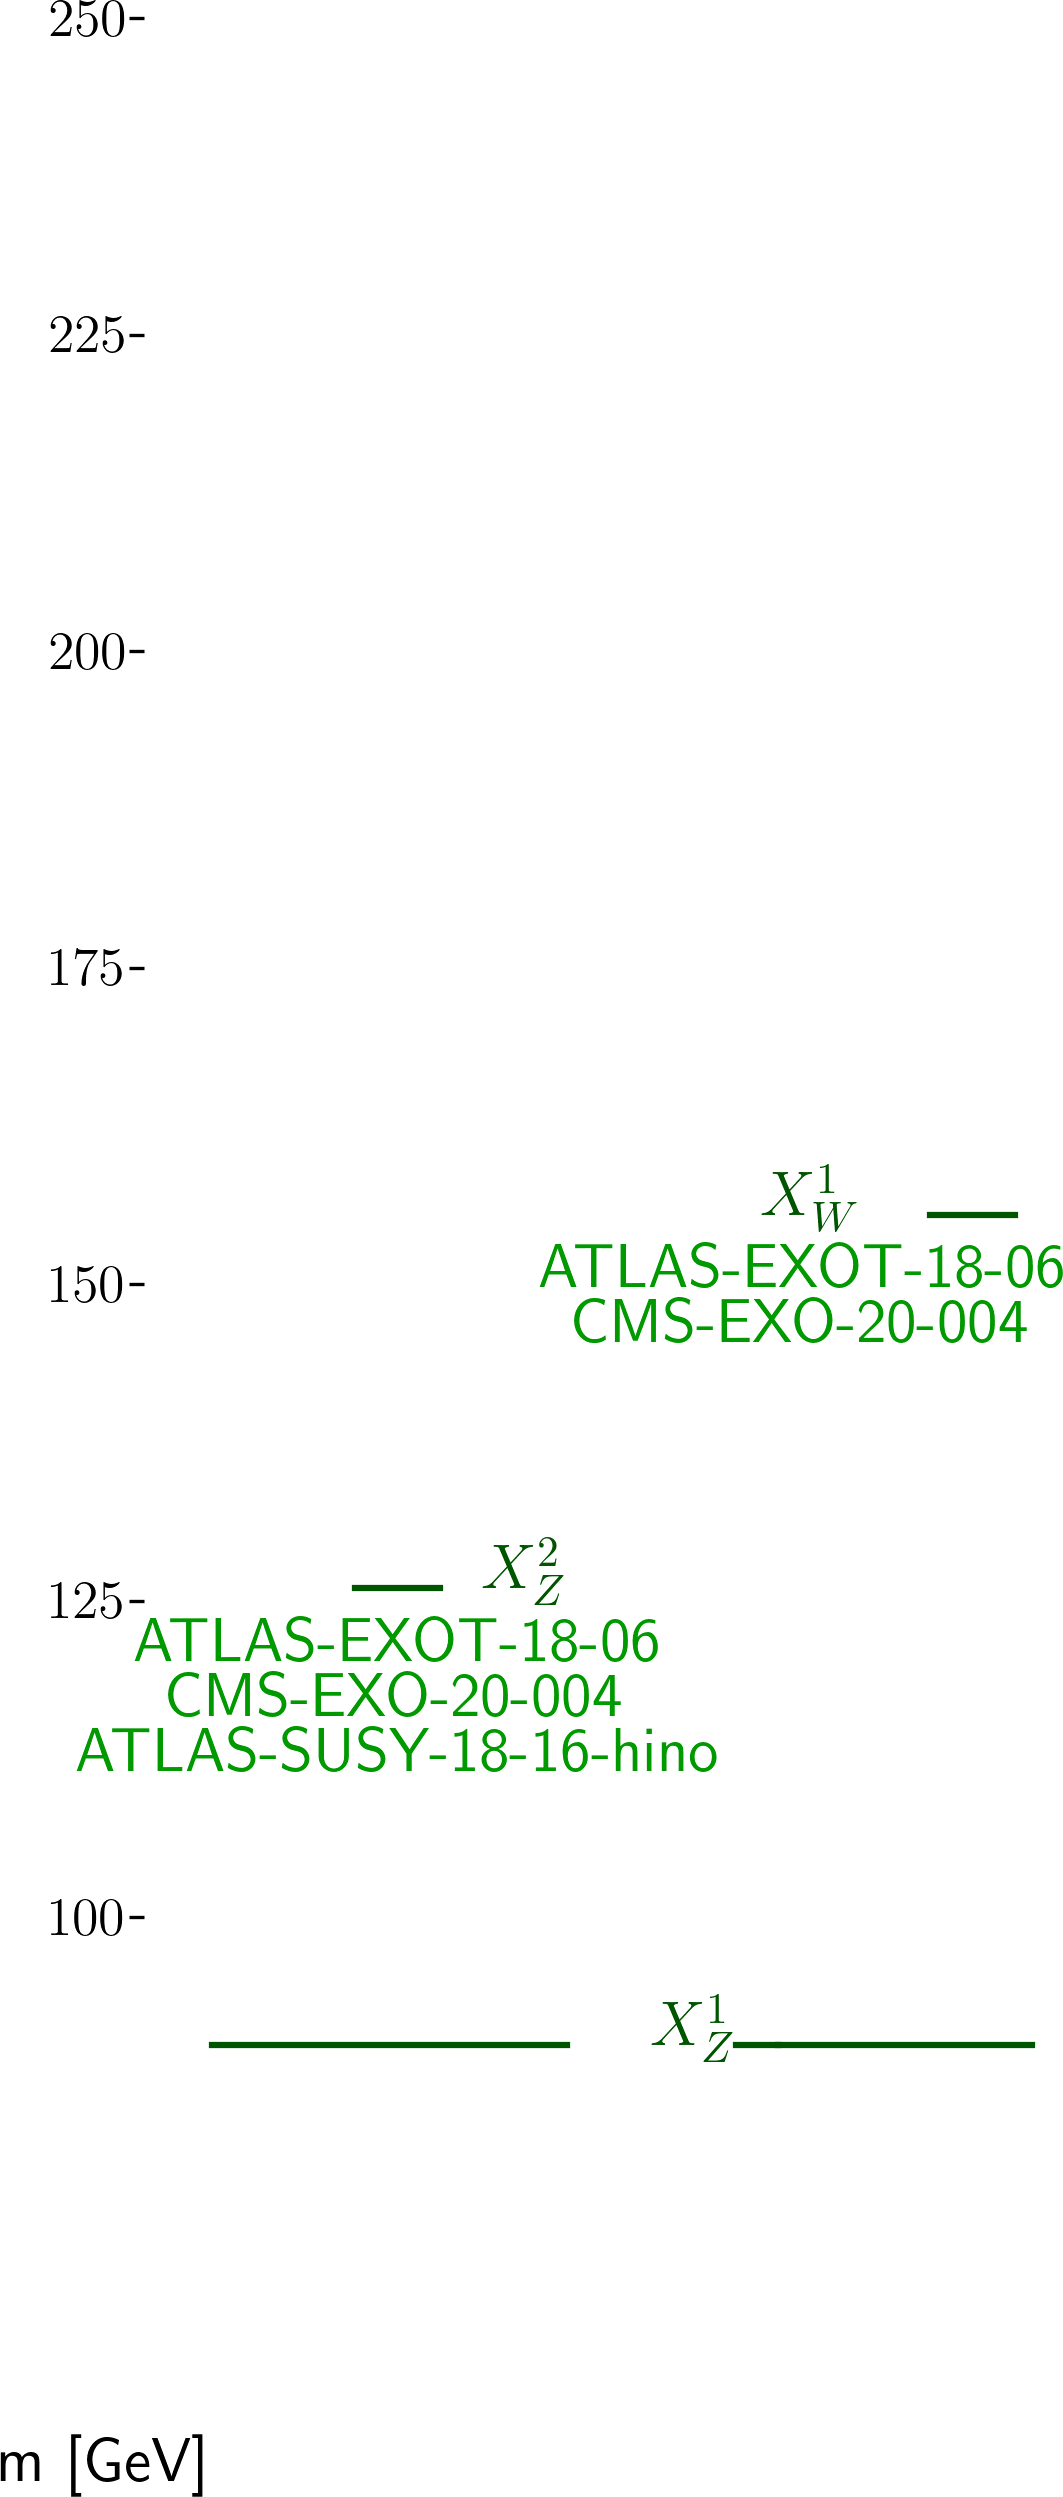
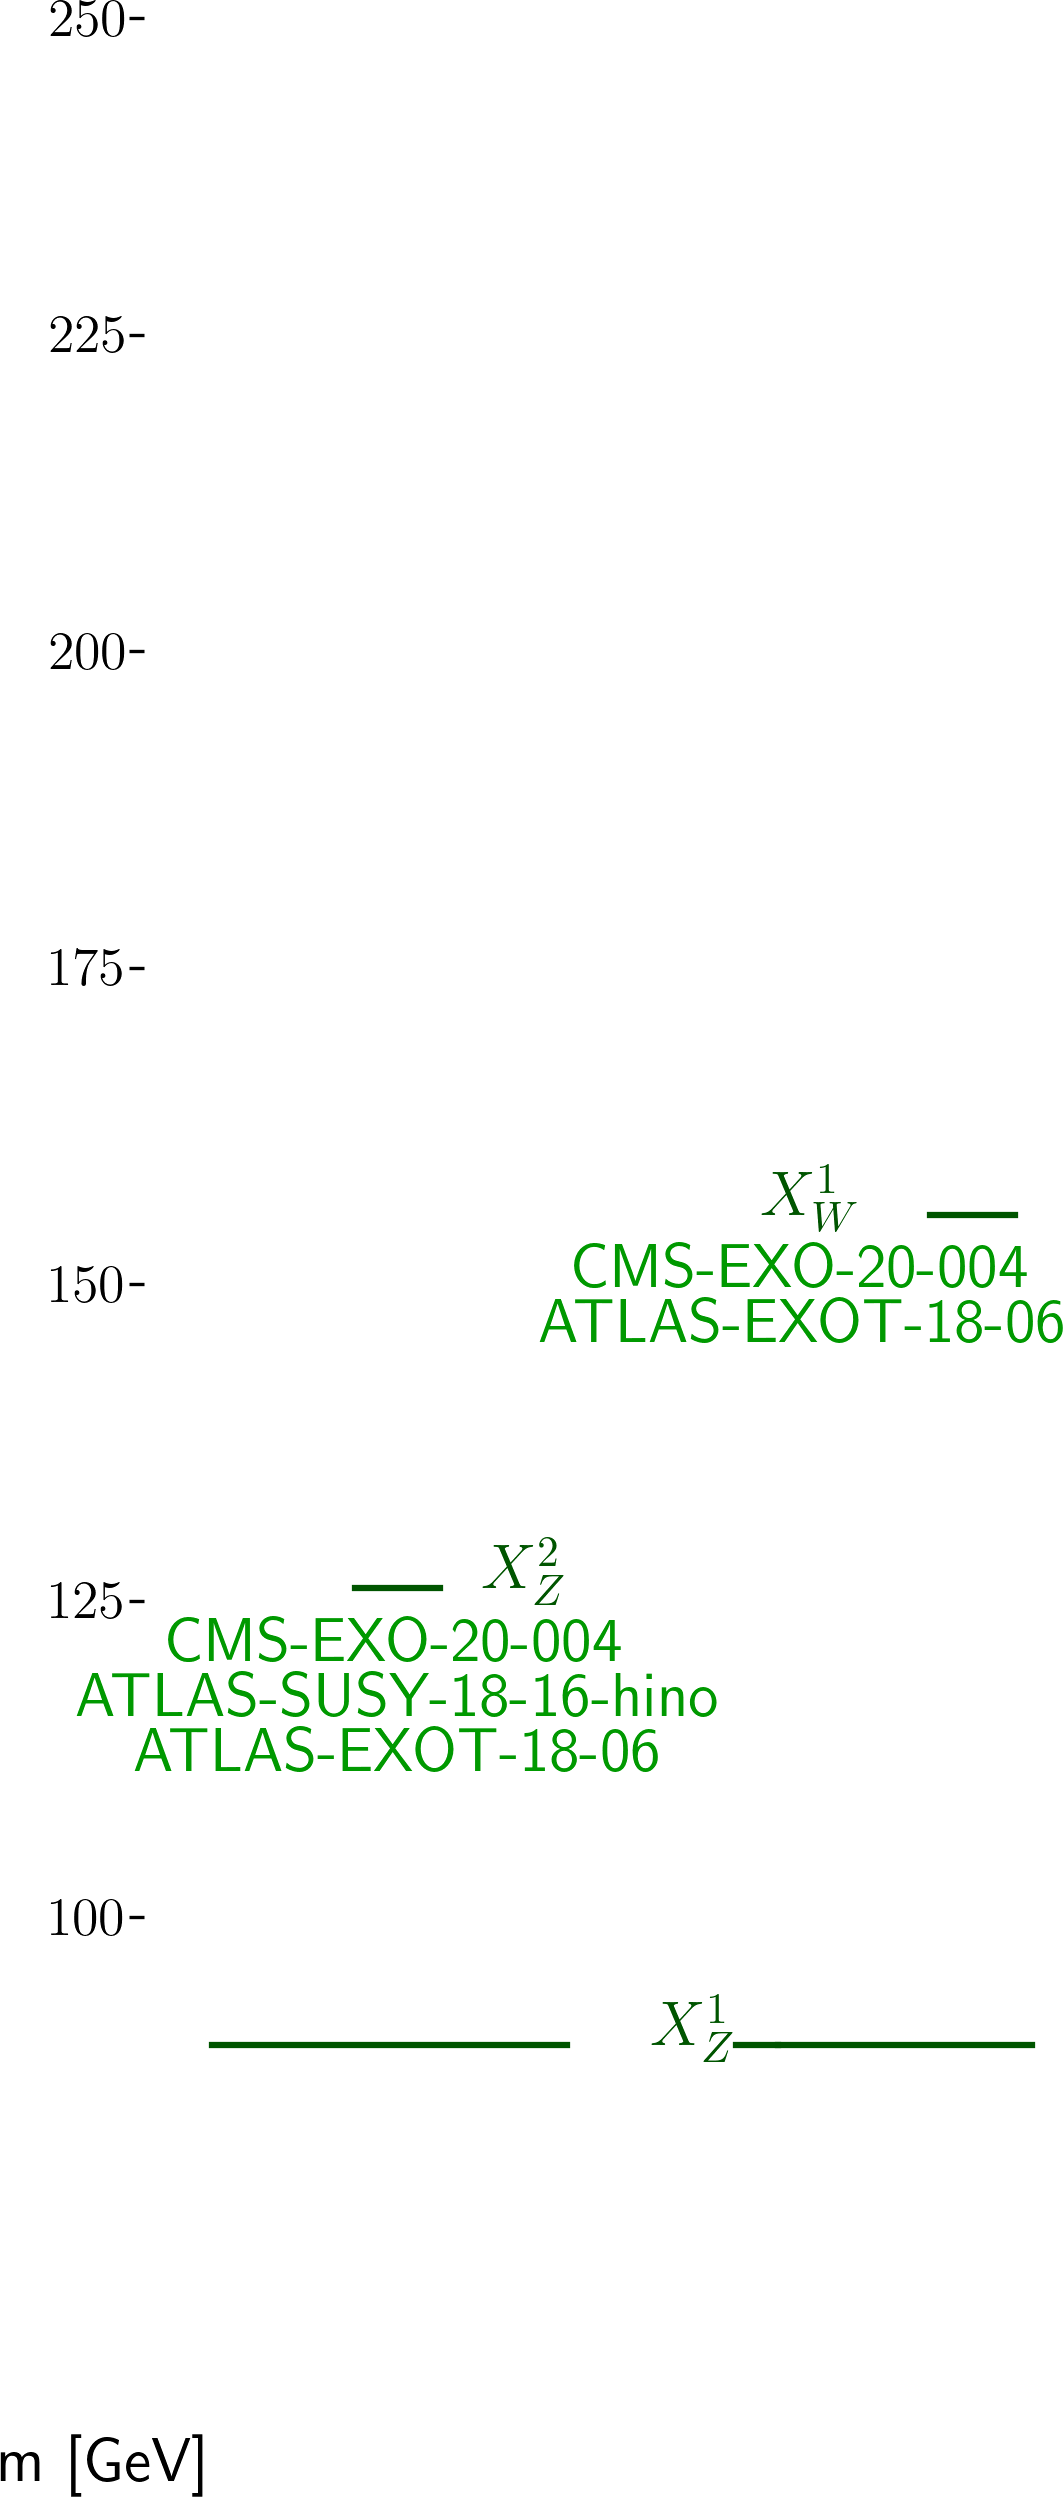
automated update by plotHiscore.py to ewk5_310:     K=18.780 TL=28.42 walkerid=0

Changed region(s): [[0.0621, 0.6247, 0.683, 0.7185], [0.4967, 0.4998, 1.0, 0.5623]]

diff --git a/protomodels/ewk5_310/index.html b/protomodels/ewk5_310/index.html
@@ -7,16 +7,16 @@
 <table width=80%>
 <tr><td>
 <br><b>5 predictions available. Highest r values are:</b><br><ul>
-<li><a href=https://atlas.web.cern.ch/Atlas/GROUPS/PHYSICS/PAPERS/EXOT-2018-06/>ATLAS-EXOT-2018-06</a>:EM8:TChiISR,TChiZISRqq,TChiWISRll,TChiZISRll r=1.46, r<sub>exp</sub>=1.58<br>
+<li><a href=https://atlas.web.cern.ch/Atlas/GROUPS/PHYSICS/PAPERS/EXOT-2018-06/>ATLAS-EXOT-2018-06</a>:EM8:TChiWISRll,TChiISR,TChiZISRll,TChiZISRqq r=1.46, r<sub>exp</sub>=1.58<br>
 <li><a href=http://cms-results.web.cern.ch/cms-results/public-results/publications/SUS-16-048/index.html>CMS-SUS-16-048</a>:Ewkino_highMET_M_10to20:TChiWZoff r=0.69, r<sub>exp</sub>=0.58<br>
 <li><a href=https://atlas.web.cern.ch/Atlas/GROUPS/PHYSICS/PAPERS/SUSY-2018-16/>ATLAS-SUSY-2018-16-hino</a>:SR_ewk_2l_high:TChiZoff r=0.62, r<sub>exp</sub>=0.59<br>
 <li><a href=https://atlas.web.cern.ch/Atlas/GROUPS/PHYSICS/PAPERS/SUSY-2018-16/>ATLAS-SUSY-2018-16</a>:CR_ewk_top_low:TChiWZoff r=0.33, r<sub>exp</sub>=0.33<br>
 </ul>
-<td><img width=600px src=./texdoc.png?1755084724>
-<br><span style='font-size: smaller; color: darkred;'>Last updated: Wed Aug 13 13:32:04 2025</span>
+<td><img width=600px src=./texdoc.png?1755084855>
+<br><span style='font-size: smaller; color: darkred;'>Last updated: Wed Aug 13 13:34:15 2025</span>
 </table><table style="width:80%">
-<td width=45%><img height=580px src=./ruler.png?1755084724><td width=55%><img height=220px src=./decays.png?1755084724>
-<font size=-3><iframe type="text/html" height="350px" width="100%" frameborder="0" src="./rawnumbers.html?1755084724"></iframe></font>
+<td width=45%><img height=580px src=./ruler.png?1755084855><td width=55%><img height=220px src=./decays.png?1755084855>
+<font size=-3><iframe type="text/html" height="350px" width="100%" frameborder="0" src="./rawnumbers.html?1755084855"></iframe></font>
 </table>
 </body>
 </html>

diff --git a/protomodels/ewk5_310/rawnumbers.html b/protomodels/ewk5_310/rawnumbers.html
@@ -2,7 +2,7 @@
 <tr><th>Analysis Name</th><th>Type</th><th>Dataset</th><th>Topos</th><th>Observed</th><th>Expected</th><th>Approx &sigma;</th><th>Particles</th>
 </tr>
 <tr><td><a href=http://cms-results.web.cern.ch/cms-results/public-results/publications/EXO-20-004/>CMS-EXO-20-004</a></td><td>comb</td> <td>-</td><td>TChiISR, TChiWISRll, TChiZISRll, TChiZISRqq</td><td> 2e+02 fb </td><td> 1e+02 fb</td><td style="text-align:right">4.6 &sigma;</td><td style="text-align:right">X<sup>1</sup><sub>W</sub>, X<sup>1</sup><sub>Z</sub>, X<sup>2</sup><sub>Z</sub></td></tr>
-<tr><td><a href=https://atlas.web.cern.ch/Atlas/GROUPS/PHYSICS/PAPERS/SUSY-2018-16/>ATLAS-SUSY-2018-16-hino</a></td><td>em</td> <td>SR_ewk_2l_med</td><td>TChiZoff</td><td>170</td><td>112.40 +/- 12.60</td><td style="text-align:right">3.3 &sigma;</td><td style="text-align:right">X<sup>1</sup><sub>Z</sub>, X<sup>2</sup><sub>Z</sub></td></tr>
+<tr><td><a href=https://atlas.web.cern.ch/Atlas/GROUPS/PHYSICS/PAPERS/SUSY-2018-16/>ATLAS-SUSY-2018-16-hino</a></td><td>em</td> <td>SR_ewk_2l_med</td><td>TChiZoff</td><td>170</td><td>112.40 +/- 12.60</td><td style="text-align:right">3.2 &sigma;</td><td style="text-align:right">X<sup>1</sup><sub>Z</sub>, X<sup>2</sup><sub>Z</sub></td></tr>
 <tr><td><a href=https://atlas.web.cern.ch/Atlas/GROUPS/PHYSICS/PAPERS/EXOT-2018-06/>ATLAS-EXOT-2018-06</a></td><td>em</td> <td>EM10</td><td>TChiISR, TChiWISRll, TChiZISRll, TChiZISRqq</td><td>413</td><td>359.00 +/- 10.00</td><td style="text-align:right">2.5 &sigma;</td><td style="text-align:right">X<sup>1</sup><sub>W</sub>, X<sup>1</sup><sub>Z</sub>, X<sup>2</sup><sub>Z</sub></td></tr>
 </table>
 <table style='color:grey'>
